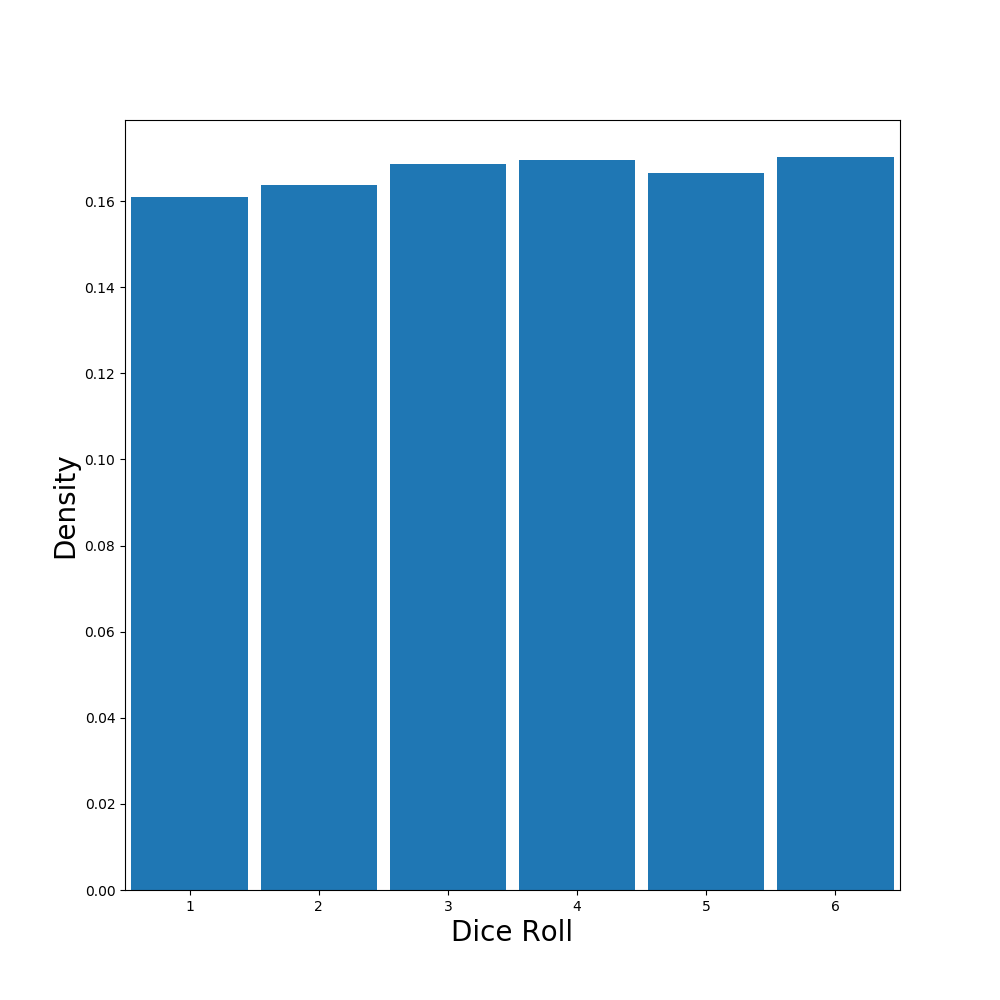
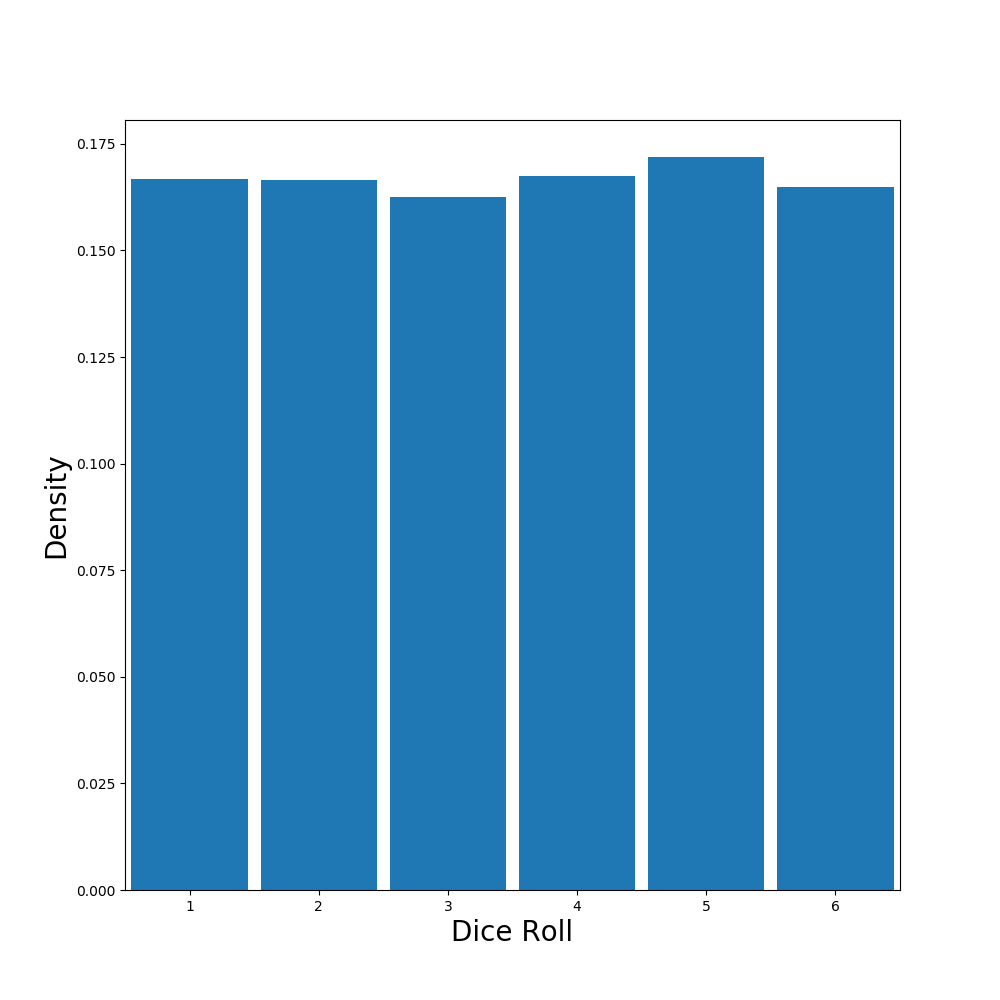
mixture distributions

diff --git a/dice_example/roll_multi_dice_mixture.py b/dice_example/roll_multi_dice_mixture.py
@@ -1,0 +1,87 @@
+from roll_multi_dice import *
+
+class mbarDiceMixtureDist:
+    def __init__(self, dists, N_k, energys):
+        """
+        mbarDiceMixtureDist will be used to 
+        make multiple examples with multiple dice
+        reweighting from a mixture distribution rather
+        than a single dice distribution
+
+        dists : List of each individual distribution {1:-1, 2,:-1, 3:-1 ... }
+        energys : List of energy functions corresponding to given distributions + new
+        energies wished to be calculated
+
+        """
+        self.mix_dists = np.array(dists).reshape(-1, np.array(dists).shape[-1])
+        print(self.mix_dists)
+        self.mix_dist_sum = [ sum(x) for x in self.mix_dists]
+        self.energys = energys
+        self.u_kln = []
+        self.N_k = N_k
+        self.u_kln = [[ sum(list(map(lambda y: f_energy[y], x))) for x in self.mix_dists] for f_energy in energys ]
+        self.u_kln = np.array(self.u_kln)
+        self.mbar = pymbar.mbar.MBAR(self.u_kln, self.N_k)
+    
+    def printResults(index):
+        print('Free Energy Differences : ')
+        print(results.getFreeEnergyDifferences()[0])
+        print('Weights : ')
+        print(results.getWeights()[:,index])
+        print('Average fair dice = '+str(np.mean(sums)))
+        print('Average loaded dice = '+str(np.mean(sums_loaded)))
+        print('MBAR Average loaded dice = '+str(results.computeExpectations(sums)[0][1]))
+
+
+        
+
+        
+if __name__ == "__main__":
+
+    N_samples = 100000
+    k_sims = 2
+    n_dice = 10
+    fair_samples = [roll_dice(n_dice) for _ in range(N_samples)]
+    unfair_samples = [roll_loaded_dice(n_dice, 6, 10) for _ in range(N_samples)]
+    unfair_test = [roll_loaded_dice(n_dice, 6, 3) for _ in range(N_samples)]
+    unfair_test_sums = [ sum(x) for x in unfair_test]
+    fair = {1:-1, 2:-1, 3:-1, 4:-1, 5:-1, 6:-1}
+    unfair = {6:-3.3026, 2:-1, 3:-1, 4:-1, 5: -1, 1:-1}
+    unfair_test = {6:-2.0986, 2:-1, 3:-1, 4:-1, 5: -1, 1:-1}
+    #low_roller = {1:- 3.3026, 2:-3.3026, 3:-3.3026, 4: -1, 5: -1, 6: -1}
+    dists = [fair_samples, unfair_samples]
+    N_k = [N_samples, N_samples, 0]
+    energys = [fair, unfair, unfair_test]
+    woot = mbarDiceMixtureDist(dists, N_k, energys)
+    print(woot.mbar.computeExpectations(woot.mix_dist_sum))
+    
+    plt.figure(figsize=[10,10])
+    plt.hist(woot.mix_dist_sum, alpha = 0.3, density=True, bins=range(1,61))
+    plt.hist(woot.mix_dist_sum, alpha =0.3, weights=woot.mbar.getWeights()[:,0], bins=range(1,61))
+    plt.hist(woot.mix_dist_sum, alpha =0.3, weights=woot.mbar.getWeights()[:,1], bins=range(1,61))
+    # plt.hist(woot.mix_dist_sum, alpha =0.3, weights=woot.mbar.getWeights()[:,2], bins=range(1,61))
+    # plt.hist(unfair_test_sums, alpha = 0.3, bins=range(1,61),density=True)
+    plt.legend(['Mixture Distribution','Fair Dice', 'Loaded Dice'])
+    plt.xlabel('Dice Value', fontsize=20)
+    plt.ylabel('Density' ,fontsize=20)
+    plt.xlim([n_dice, n_dice*6])
+    plt.gca()
+    plt.savefig('outputs/mixture_dist.png')
+    plt.show()
+
+    plt.figure(figsize=[10,10])
+    plt.hist(woot.mix_dist_sum, alpha = 0.3, density=True, bins=range(1,61))
+    # plt.hist(woot.mix_dist_sum, alpha =0.3, weights=woot.mbar.getWeights()[:,0], bins=range(1,61))
+    # plt.hist(woot.mix_dist_sum, alpha =0.3, weights=woot.mbar.getWeights()[:,1], bins=range(1,61))
+    plt.hist(unfair_test_sums, alpha = 0.3, bins=range(1,61),density=True)
+    plt.hist(woot.mix_dist_sum, alpha =0.3, weights=woot.mbar.getWeights()[:,2], bins=range(1,61))
+    plt.legend(['Mixture Distribution', 'Loaded Dice','MBAR Weighted Dice'])
+    plt.xlabel('Dice Value', fontsize=20)
+    plt.ylabel('Density' ,fontsize=20)
+    plt.xlim([n_dice, n_dice*6])
+    plt.gca()
+    plt.savefig('outputs/mixture_dist_estimates.png')
+    plt.show()
+
+        
+        

diff --git a/dice_example/roll_multi_dice.py b/dice_example/roll_multi_dice.py
@@ -22,8 +22,7 @@ def roll_loaded_dice(n,*args):
 #Main
 
 
-# if __name__ == "__main__":
-if True:
+if __name__ == "__main__":
    plot = True
 
    # Samples for a fair dice
@@ -44,7 +43,9 @@ if True:
 
 
    fair = {1:-1, 2:-1, 3:-1, 4:-1, 5:-1, 6:-1}
-   unfair = {1:-2.0986, 2:-1, 3:-1, 4:-1, 5: -1, 6:-1}
+   unfair = {1:-1, 2:-1, 3:-1, 4: -1, 5: -1, 6: -2.0986}
+
+   #unfair = {1:-2.0986, 2:-1, 3:-1, 4:-1, 5: -1, 6:-1}
 
    u_fair = [sum(list(map(lambda y: fair[y], x))) for x in samples]
    u_unfair = [sum(list(map(lambda y: unfair[y], x))) for x in samples]
@@ -64,7 +65,7 @@ if True:
       samples_loaded =list()
 
       for i in range(N_samples):
-         roll = roll_loaded_dice(n_dice,1,3)
+         roll = roll_loaded_dice(n_dice,6,3)
          samples_loaded.append(roll)
          #if roll not in bins_loaded.keys():
          #   bins_loaded[roll] = 1
@@ -97,28 +98,47 @@ if True:
 
    if plot == True:
       # Histograms
-      plt.hist(list(map(sum, samples)), alpha=0.5, bins=range(1,6*n_dice+1))
-      plt.xlabel('Roll Energy')
-      plt.ylabel('Frequency')
+      plt.figure(figsize=[10,10])
+      plt.hist(list(map(sum, samples)), bins=range(1,6*n_dice+1))
+      plt.xlim(n_dice, n_dice*6)
+      plt.xlabel('Roll Value', fontsize=20)
+      plt.ylabel('Frequency', fontsize=20)
       plt.legend(['Fair Dice'])
-      # plt.hist(list(map(sum, samples_loaded)), alpha=0.5, bins=range(1,6*n_dice))
+
+      plt.gca()
+      plt.savefig('outputs/10_fair_dice.png')
       plt.show()
 
       # KDE of data
 
-      density = sps.gaussian_kde(list(map(sum, samples)))
-      density_MBAR = sps.gaussian_kde(list(map(sum, samples)), weights=results.getWeights()[ :, 1])
-      density_loaded = sps.gaussian_kde(list(map(sum, samples_loaded)))
+      bw = 0.1
+      density = sps.gaussian_kde(list(map(sum, samples)), bw_method=bw)
+      density_MBAR = sps.gaussian_kde(list(map(sum, samples)), weights=results.getWeights()[ :, 1],bw_method=bw)
+      density_loaded = sps.gaussian_kde(list(map(sum, samples_loaded)), bw_method=bw)
 
 
       x_range = np.linspace(1*n_dice, 6*n_dice, 200)
+
+      plt.figure(figsize=[10,10])
       plt.plot(x_range, density(x_range))
       plt.plot(x_range, density_loaded(x_range))
       plt.plot(x_range, density_MBAR(x_range))
+      #plt.hist(list(map(sum, samples)), bins=range(1,6*n_dice+1), alpha = 0.4, density=True)
+      #plt.hist(list(map(sum, samples_loaded)), bins=range(1,6*n_dice+1), alpha = 0.4, density=True, color='k')
+      #plt.hist(list(map(sum, samples)), weights=results.getWeights()[:,1], bins=range(1,6*n_dice+1), alpha=0.4, density=True)
+      plt.legend(['Fair Dice', 'Loaded Dice', 'MBAR Weighted Dice'])
+      plt.xlim([10,60])
+      plt.xlabel('Dice Value', fontsize=20)
+      plt.ylabel('Density', fontsize=20)
+      plt.gca()
+      plt.savefig('outputs/10_weighted_dice.png')
       plt.show()
 
-
       # Scatter of weights
-
+      plt.figure(figsize=[10,10])
       plt.scatter(sums, results.getWeights()[:,1])
+      plt.xlabel('Dice Value', fontsize=20)
+      plt.ylabel('Weight Value', fontsize=20)
+      plt.gca()
+      plt.savefig('outputs/10_weighted_dice_weights.png')
       plt.show()

diff --git a/dice_example/roll_dice.py b/dice_example/roll_dice.py
@@ -82,8 +82,11 @@ if __name__ == "__main__":
       print(results.getFreeEnergyDifferences()[0])
       print(results.getWeights())
       print('Average fair dice = '+str(np.mean(samples)))
+      print('Variance fair dice = '+str(np.std(samples)))
       print('Average loaded dice = '+str(np.mean(samples_loaded)))
+      print('Variance loaded dice = '+str(np.std(samples_loaded)))
       print('MBAR Average loaded dice = '+str(results.computeExpectations(samples)[0][1]))
+      print('MBAR Variance loaded dice = '+str(np.sum(results.getWeights()[:,1]*np.power(samples,2)) - np.power(results.computeExpectations(samples)[0][1],2)))
       print('MBAR Partition Function :')
       print(np.exp(-1*results.getFreeEnergyDifferences()[0]))
    
@@ -111,14 +114,14 @@ if __name__ == "__main__":
       plt.show()
 
 
-      print(a[0])
-      print(a_bins)
+      #print(a[0])
+      #print(a_bins)
       plt.figure(figsize=[10,10])
       plt.bar(a_bins-0.8, a[0], width=0.3, align='center')  # Needed to shift all bins over by -0.5, messy, but gives the plot I wanted
-      plt.bar(b_bins-0.5, b[0], width=0.3, align='center')
-      plt.bar(c_bins-0.2, c[0], width=0.3, align='center')
+      plt.bar(c_bins-0.5, c[0], width=0.3, align='center')
+      plt.bar(b_bins-0.2, b[0], width=0.3, align='center')
       plt.xlim([0.5,6.5])
-      plt.legend(['Fair Dice', 'MBAR Weighted Dice', 'Weighted Dice'])
+      plt.legend(['Fair Dice', 'Weighted Dice', 'MBAR Weighted Dice' ])
       plt.xlabel('Dice Roll', fontsize=20)
       plt.ylabel('Density', fontsize=20)
       plt.gca()
@@ -127,5 +130,5 @@ if __name__ == "__main__":
 
 
 
-      # plt.hist(results.getWeights()[:,1])
-      # plt.show()
+      plt.scatter(samples,results.getWeights()[:,1])
+      plt.show()
